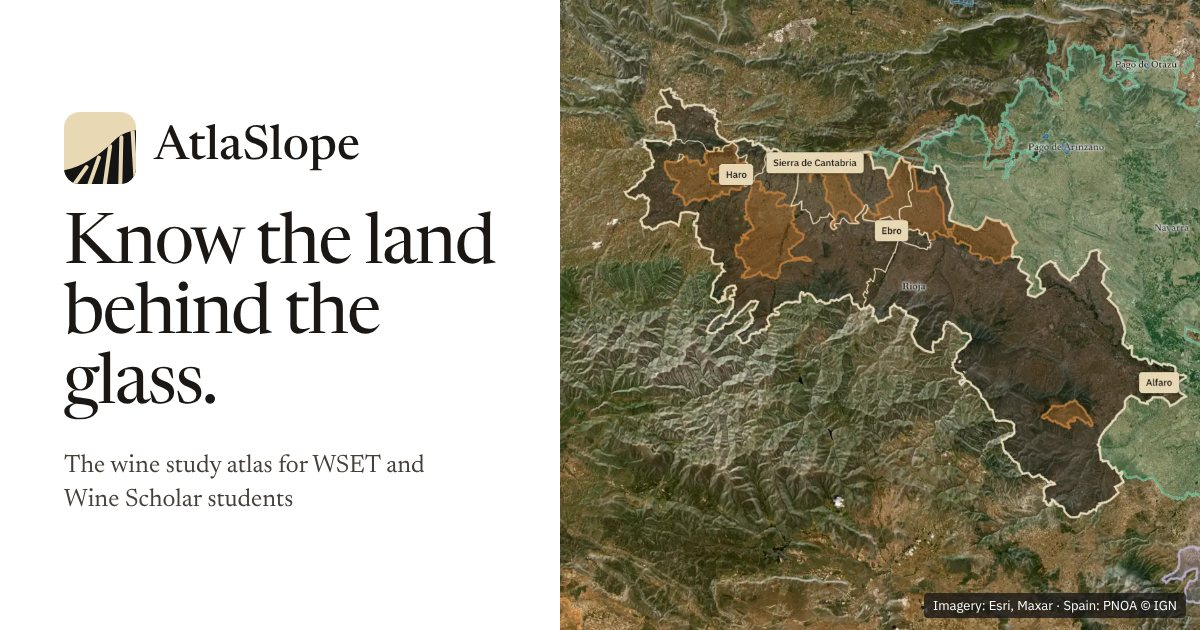
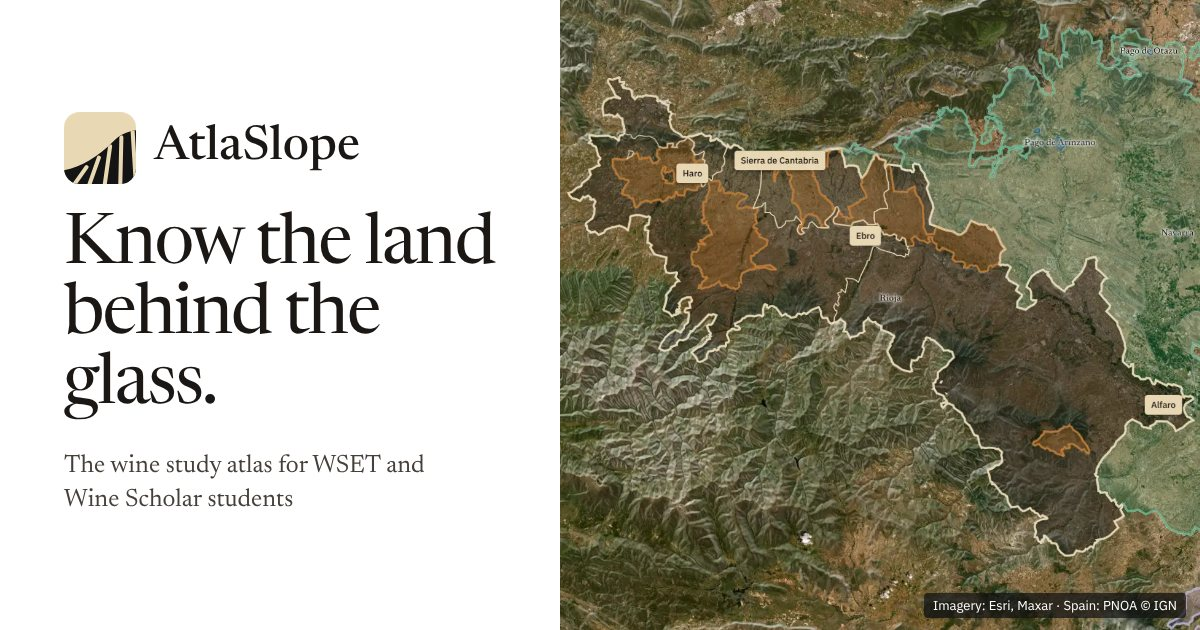
Home hero: Rioja reshot lower and closer (zoom 8.95), centred above the guide card; share card reframed
Owner 09:48Z: Rioja sat too high on the hero map.

Claude-Session: https://claude.ai/code/session_013TAbuE83Nh8BfVneou6SAA

Changed region(s): [[0.4625, 0.0, 1.0, 1.0]]

diff --git a/src/home/home.css b/src/home/home.css
@@ -51,7 +51,7 @@ p{text-wrap:pretty}
 /* wide windows: the text column ends a fixed width past the page edge, so the headline keeps its three lines and the atlas takes the rest */
 @media (min-width:1280px){.hero{grid-template-columns:minmax(0,calc(max(var(--gut),(100vw - var(--max))/2) + 640px)) minmax(0,1fr)}}
 .hero .map{position:relative;margin:0;min-height:440px;overflow:hidden;background:#2B3A2A}
-.hero .map > img{position:absolute;inset:0;width:100%;height:100%;object-fit:cover;object-position:50% 20%}
+.hero .map > img{position:absolute;inset:0;width:100%;height:100%;object-fit:cover;object-position:50% 40%}
 /* the imagery and card-photo credit: the small credit tag every photo carries (src/styles/app.css .cover .credit) */
 .hero .map figcaption{position:absolute;right:.75rem;bottom:.75rem;max-width:calc(100% - 1.5rem);text-align:right;color:#fff;font-size:.7rem;line-height:1.35;background:rgba(0,0,0,.55);padding:.1rem .4rem;border-radius:.2rem}
 /* the Rioja guide as a card on the map (owner pick 09:31Z, 19 Oct 2026), bottom left, clear of the flags */

diff --git a/Tools/share/make_share_image.py b/Tools/share/make_share_image.py
@@ -33,7 +33,7 @@ html, body {{ margin: 0; width: {W}px; height: {H}px; overflow: hidden; backgrou
 .brand {{ display: flex; align-items: center; gap: 18px; font: 500 48px/1 Newsreader, serif; color: {INK}; }}
 h1 {{ font: 400 70px/1 Newsreader, serif; letter-spacing: -2px; color: {INK}; margin: 0; }}
 .tag {{ font: 400 25px/1.35 Newsreader, serif; color: {INK2}; }}
-.map {{ position: absolute; left: 560px; right: 0; top: 0; bottom: 0; background: url('../../public/home/hero.webp') 88% 4% / 920px auto; }}
+.map {{ position: absolute; left: 560px; right: 0; top: 0; bottom: 0; background: url('../../public/home/hero.webp') 91% 20% / 860px auto; }}
 .credit {{ position: absolute; right: 14px; bottom: 12px; font: 400 13px/1 'IBM Plex Sans', sans-serif; color: #fff;
   background: rgba(20,20,20,.75); padding: 6px 9px; border-radius: 4px; }}
 </style></head><body>

diff --git a/docs/handoffs/2026-10-19-home-page-refresh.md b/docs/handoffs/2026-10-19-home-page-refresh.md
@@ -2,7 +2,7 @@
 
 ## Done
 - Round 3 of option B built (mock https://claude.ai/artifact/Ek78Z4TFGcCN96sazrjAMN), with the owner's 09:31Z picks: the Rioja guide card on the hero map and line icons on the five steps.
-- Hero: a tall real shot of Rioja with its four flags (`public/home/hero.webp`, 1400x1540, `#view=-2.75,41.97,8.7,0,0`, Esri imagery). The hero keeps today's shape (big headline, near-square map), not the mock's wide map.
+- Hero: a tall real shot of Rioja with its four flags (`public/home/hero.webp`, 1400x1540, `#view=-2.62,42.17,8.95,0,0`, Esri imagery). The hero keeps today's shape (big headline, near-square map), not the mock's wide map.
 - Tiles are real app crops laid over their screens (`public/home/atlas-zoom.webp`, `guide-top.webp`, `guide-short.webp`). The old `guide.webp` is gone.
 - The guide count is filled in at build time from `content/guides/` (`src/home/guideCount.ts`, a Vite `transformIndexHtml` plugin).
 - Share card (`public/share.jpg`, `Tools/share/make_share_image.py`): the subline layout with today's line, logo 1.5x, no black strip.
